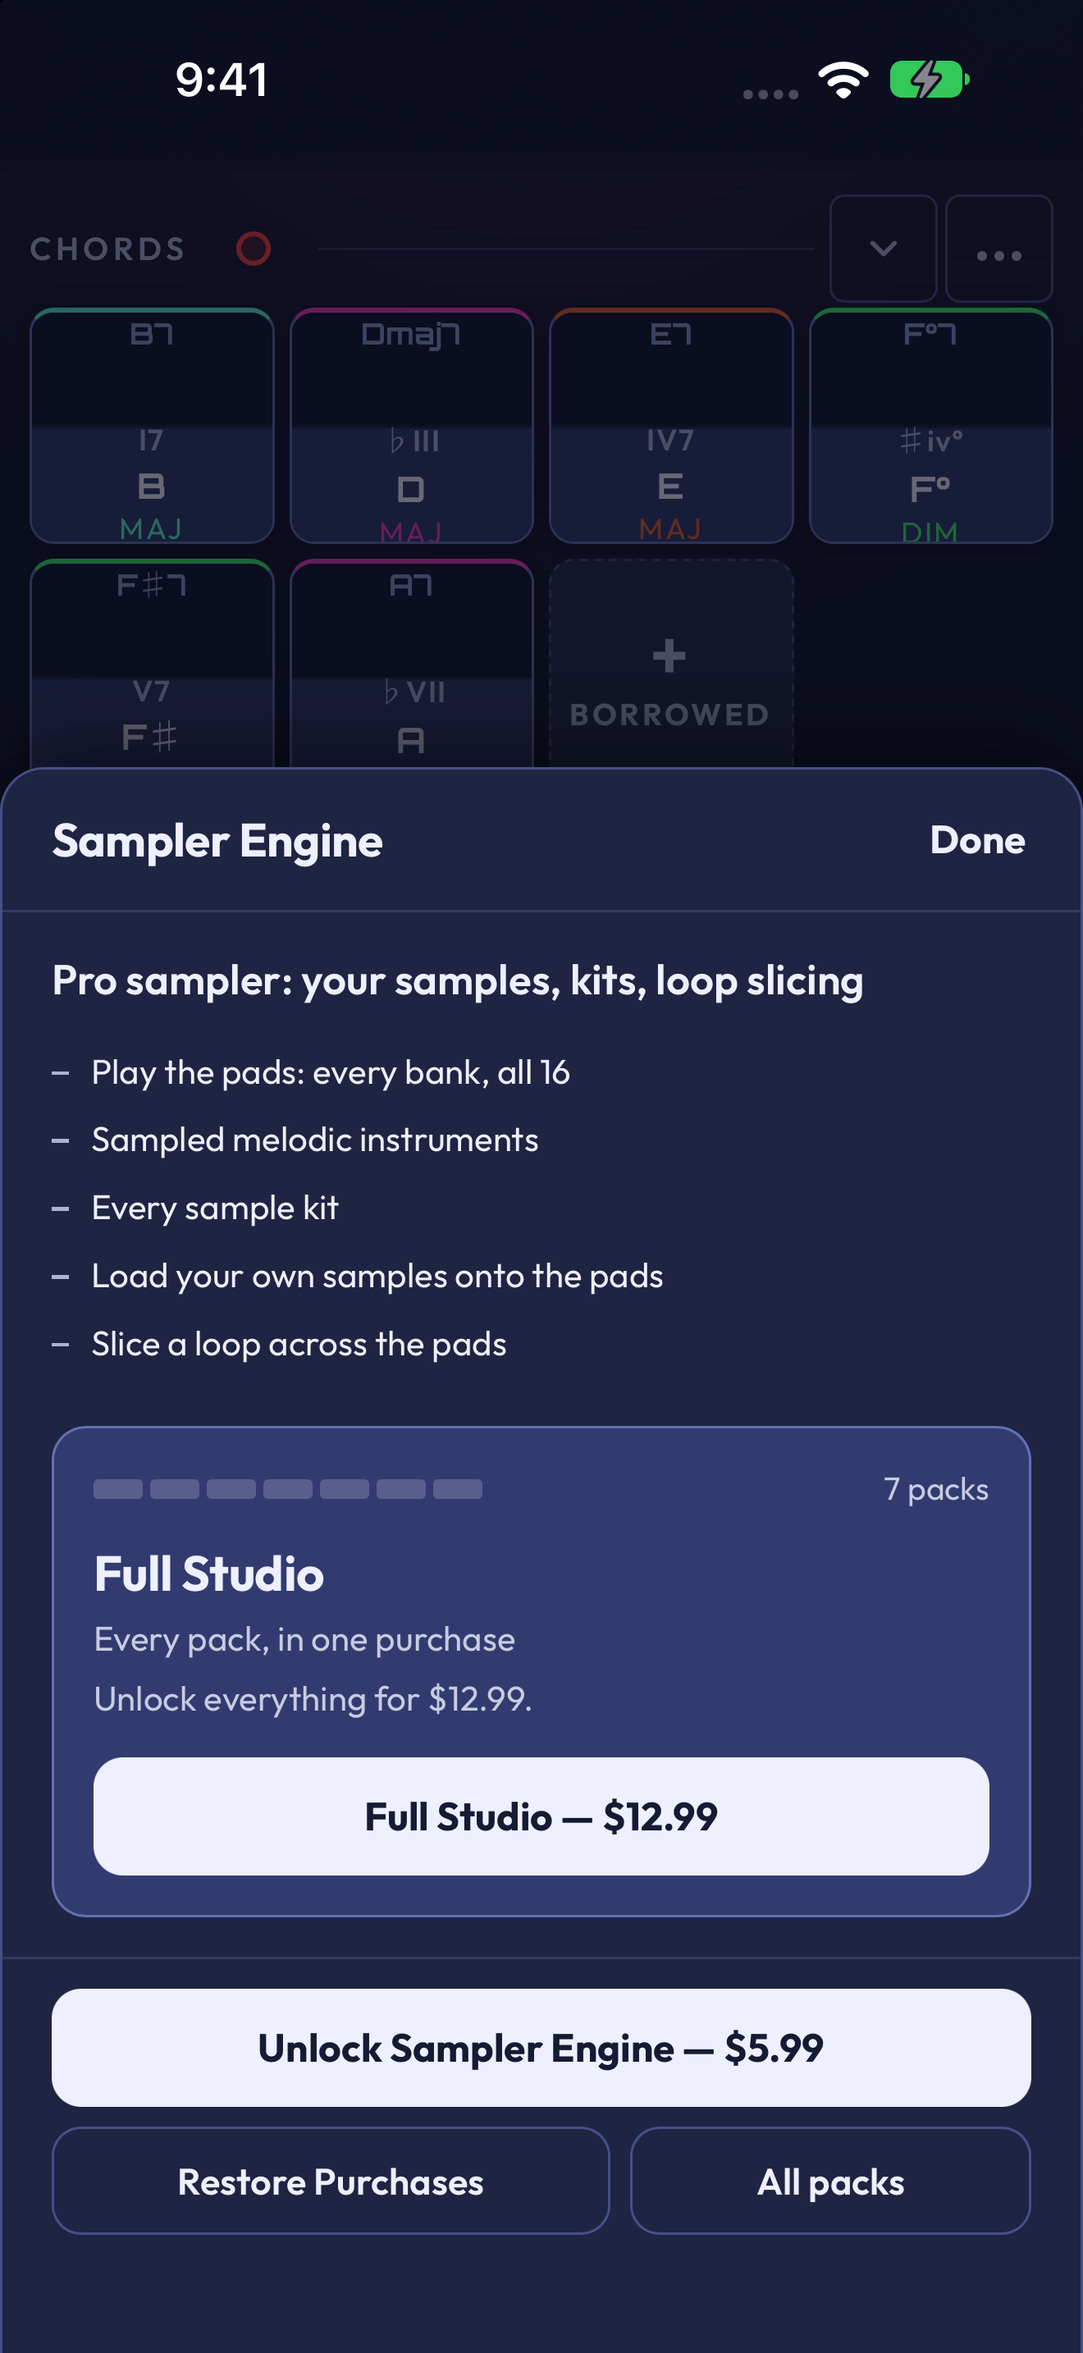
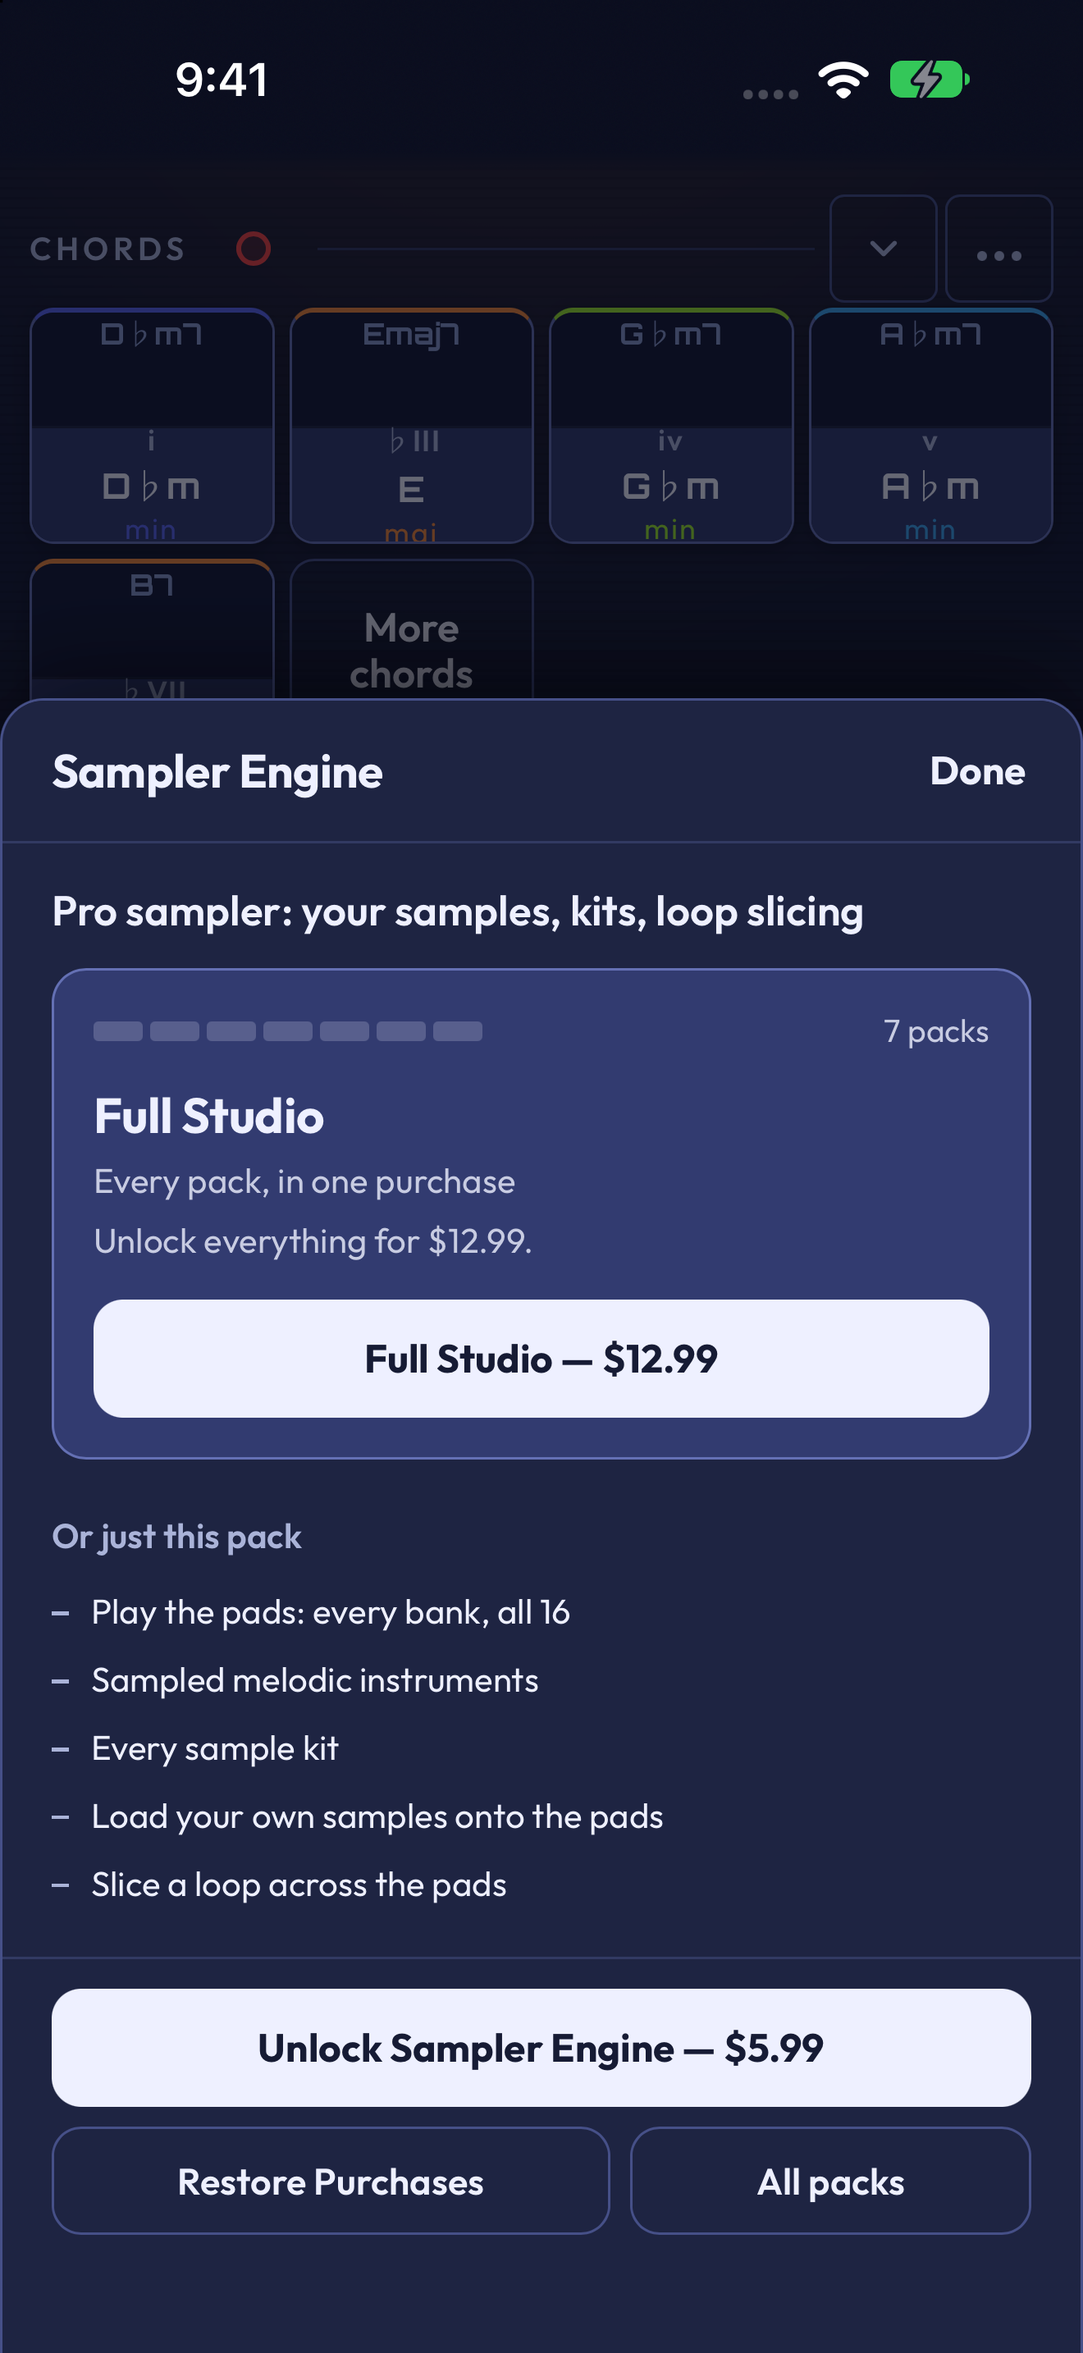
Refresh v2.4 purchase screenshots and App Review notes
Codex-Session: https://claude.ai/code/session_01a21eb6-9818-7411-b5da-d0631bbee7ea

diff --git a/docs/app-store.md b/docs/app-store.md
@@ -60,7 +60,7 @@ drum machine,synth,theory,midi,sampler,songwriting,backing track,looper,piano,gu
 (93.) The name covers “chord” and “groovebox,” and the subtitle covers “music.”
 Keep keywords distinct from the name, subtitle and category, and omit other products’ names.
 
-**Description** (2174 of 4000). One line per paragraph on purpose: App Store Connect keeps every line
+**Description** (limit 4000). One line per paragraph on purpose: App Store Connect keeps every line
 break you paste, so a description wrapped to 85 columns shows a break mid-sentence. It names no other product
 (no iReal, 808 or Linn: those are trademarks) and no price (prices are per storefront). It does not promise
 playback with the screen locked: background scheduling is still being moved to the engine
@@ -98,7 +98,7 @@ FREE TO START, PACKS WHEN YOU WANT MORE
 mõdRïff is free to use. Major, minor, pentatonic and blues scales, two drum kits, five saved songs, two sections per song and 30-second audio export are included. Add only what you need with one-time packs: Sampler Engine, mõdSynth Engine, Groove, Theory, Practice & Perform, Studio and Sounds. Or get Full Studio for every pack listed here, and every update to them. No subscriptions.
 
 PRIVATE BY DESIGN
-No account. No ads. No tracking. No third-party analytics. Works offline. Your songs, patterns and recordings stay on your device. Apple provides aggregate store statistics and, if you opt in to sharing, app usage and diagnostics.
+No account. No ads. No tracking. No third-party analytics. Make music offline. Your work stays on your device unless you choose to share it or turn on iCloud sync. Recordings are excluded from sync. Apple provides aggregate store statistics and, if you opt in to sharing, app usage and diagnostics.
 
 mõdRïff is made by one person, Ben Handel of Dutdut Records. Questions or ideas: support@modriff.com
 ```
@@ -169,15 +169,24 @@ References: [Apple: no technical implementation required](https://developer.appl
 [usage reports and opt-in](https://developer.apple.com/help/app-store-connect-analytics/engagement/app-usage/),
 [privacy disclosure rules](https://developer.apple.com/app-store/app-privacy-details/).
 
-`privacy.html` covers the camera (chord-sheet photo, read on the device), optional iCloud sync, the app's folder in Files,
-one-time packs and iPad. Pasting a web page address in Library > Chord charts (v2.2) makes one request from the device to that site, only for an address the person pasted; nothing is sent to us. The label stays Data Not Collected, but `privacy.html` (site repo) should say so. The November 12, 2026 update clarifies Apple's aggregate store reports and optional usage/diagnostic
-sharing, removes the overbroad "no third-party code" claim, and keeps the landing page consistent. The site's iPhone Duo tab shows the three states from `screenshots/v6.9.6/`; the open, wide shot was removed (it showed the old Linn kit name), so retake it from Xcode before the site keeps that state. The
-site's "for iPhone, iPad and Mac" is true: the Mac Catalyst build is uploaded to App Store Connect.
+The [public policy](https://modriff.com/privacy.html) covers on-device chord-sheet recognition, optional iCloud sync,
+Files and one-time packs. In Library > Chord charts, Import requests the web address the user entered directly from
+that site. Next page requests the linked page. The developer receives neither the address nor the imported charts.
+The App Privacy answer stays Data Not Collected. The site's iPhone Duo shots in `screenshots/v6.9.6/` are historical.
+
+## App Store Connect status
+
+App Store Connect app ID `6828620379` covers iOS and macOS. Apple confirmed the v2.4 iOS release candidate in
+TestFlight on November 27, 2026 (`1.0 (261127.1534)`, source `f0e385549`). The previous TestFlight builds were
+iOS `1.0 (261125.1142)` and macOS `1.0 (261125.1136)`. Check the outstanding messages for
+[iOS](https://appstoreconnect.apple.com/apps/6828620379/appstore/reviewsubmissions/details/a57b9ead-b8b5-488c-99e3-6ecbe4aec323) and
+[macOS](https://appstoreconnect.apple.com/apps/6828620379/appstore/reviewsubmissions/details/da1e7fd7-fddc-4e38-8986-6a36efb5bc57)
+before resubmitting. TestFlight availability and App Review approval are separate steps.
 
 ## App Review notes
 
 Apple's reply to the first submission asked for six things in the Notes field (limit 4000). The note below
-answers all six in order (3311 characters, counted with `len()` on the text between the rules). Paste it into
+answers all six in order. Paste it into
 App Store Connect > App Review Information > Notes and replace the recording line with the real link first.
 It is the only review note: the sandbox route to the packs is in it, so the IAP section no longer has its own.
 
@@ -214,17 +223,17 @@ mõdRïff is a chord-based music maker for iPhone, iPad and Mac. You pick a key 
 
 3. HOW TO REACH THE MAIN FEATURES
 No account, sample file or setup needed; it works offline. Open the app, tap Start, press the green play button in the bottom bar. Tap the chord pads on the Live tab, or open Drums and tap steps in the grid.
-Paid features: the app is free; seven optional packs and a Full Studio bundle are one-time In-App Purchases. Tapping any locked control opens a sheet naming it with the pack and its price; Settings > About > Store lists every pack. In the sandbox: tap a locked drum kit (Digital 1 and Analog 1 are free), buy the Groove Pack, then tap another locked control: the sheet now offers "Complete Your Studio", an upgrade price for Full Studio shown only after a pack is owned. Restore Purchases is on that sheet, the store screen and Settings > About. Locked things can often be tried first: sampler pads and Sounds Pack voices play a quiet preview twice, and Hear it plays a short Groove Pack demo.
-Permissions, each asked only when used: Microphone, when you record in the Sampler. Camera, when you choose Camera to import a chord sheet from a photo (Songs > File > Import a chord sheet). Bluetooth, only via Settings > MIDI to pair a Bluetooth MIDI keyboard (not needed to review). Local Network, only when Ableton Link is switched on in Settings. iCloud sync (Settings > iCloud & backup) is optional and off by default; it needs an iCloud account and is not needed to review. Background audio is enabled so a song keeps playing when the screen locks.
+Paid features: seven optional packs and Full Studio are one-time purchases. Tap a locked drum kit in Studio > Drums. On a fresh install the sheet shows Full Studio first. Tap Unlock Groove Pack at the bottom to buy only that pack. After buying it, tap another locked control to see Complete Your Studio, the upgrade for existing pack owners. Restore Purchases is at the bottom of the sheet and under More > Settings > Packs & purchases, which also has the Store button. Hear it plays a short demo.
+Permissions are requested when used. Microphone: record a sample in the Sampler. Camera: Song > Build > File > Import a chord sheet > Camera. Bluetooth: pair a MIDI keyboard in Settings > MIDI & keyboard. Local Network: turn on Ableton Link in Settings. Background audio allows supported playback to continue when you lock the screen. Optional iCloud sync is off by default under Settings > iCloud & backup.
 
 4. EXTERNAL SERVICES
-Apple's StoreKit 2 for the purchases, and Apple's on-device text recognition (Vision) to read chord-sheet photos; the picture is not stored or sent. Ableton Link (Ableton's SDK) for tempo sync with other apps on the local network. No server or backend of ours, no analytics, no advertising and no AI service. Nothing leaves the device unless the person turns on iCloud sync (off by default): then songs, setups and patches go to their own private iCloud (CloudKit) database, which we cannot read; recordings never sync. On the Mac, Link listens for peers on the local network (the com.apple.security.network.server entitlement); the app runs no server.
+Apple's StoreKit 2 handles purchases. Apple's Vision reads chord-sheet photos on the device without storing or sending the picture. Ableton Link syncs tempo with other apps on the local network. On Mac, it listens for local peers using the com.apple.security.network.server entitlement. The app has no developer backend, third-party analytics, ads or AI service. With iCloud sync on, songs, setups and patches go to the user's private CloudKit database, which we cannot access. Recordings stay local unless the user shares them. Importing from a web address in Library > Chord charts requests the chosen site directly. Sharing or opening music in the browser sends it where the user chooses.
 
 5. REGIONS
 It behaves the same in every region. Only the prices differ, as the App Store sets them per storefront. English only.
 
 6. THIRD-PARTY MATERIAL
-Each bundled sound, font and code library is logged with its source, author and licence. Almost all sounds are CC0 (public domain). The rest are MIT, CC BY 3.0 (credited), SIL Open Font Licence fonts, and the developer's own work (icon, two sound effects). The synthesis models in the mõdSynth Macro Osc patches are MIT-licensed code from Emilie Gillet (Mutable Instruments). Ableton Link is used under license from Ableton AG. Credits and licence links for all of it are in Settings > Help & about > Credits. The app names no third-party product.
+Sources, authors and licences for the bundled sounds, fonts and libraries are in Settings > Help & about > Credits. They include CC0 sounds, credited CC BY 3.0 sounds, SIL Open Font Licence fonts, MIT-licensed code and sounds, and original work. Emilie Gillet's MIT-licensed synthesis models are used in the mõdSynth Macro Osc patches. Ableton Link is used under licence from Ableton AG.
 Contact: support@modriff.com
 ```
 
@@ -234,11 +243,11 @@ Contact: support@modriff.com
 2. Splash: tap Start.
 3. Press play in the bottom bar; let a groove run a few seconds.
 4. Live tab: tap chord pads; change key once to show everything following.
-5. Drums: open the grid and tap a few steps.
-6. Tap a locked control (a locked drum kit): the pack sheet opens, showing pack and price.
-7. Buy the Groove Pack with the sandbox account: confirm the Apple payment sheet; the kit unlocks and plays.
+5. Studio > Drums: open the grid and tap a few steps.
+6. Tap a locked drum kit. Show Full Studio at the top of the purchase sheet and Unlock Groove Pack at the bottom.
+7. Tap Unlock Groove Pack and confirm the sandbox purchase. Select the kit and let it play.
 8. Tap another locked control: the "Complete Your Studio" offer shows.
-9. Settings > Help & about > Store, then Restore Purchases.
+9. More > Settings > Packs & purchases > Restore Purchases.
 10. Sampler: tap Record; the microphone permission prompt appears; allow it, record a second, play it back.
 
 ## Header and search results
@@ -268,7 +277,7 @@ launch, tap Random, tap play, tap a chord, then `xcrun simctl io <udid> screensh
 Simulator: the shared one gets other sessions' builds installed over it. Driving a new Simulator needs the owner's
 approval in the app once per device.
 
-**IAP review shots** (`screenshots/iap/`, 1320 x 2868, opaque) show all eleven purchase sheets from the 1.9.9.9.2 iPhone Simulator build. `verification.json` records each sheet’s text, ownership and image hash; `source/` holds the disposable Simulator capture automation.
+**IAP review shots** (`screenshots/iap/`, 1320 x 2868, opaque) show all eleven purchase sheets from the v2.4 iPhone Simulator build. Full Studio appears first on the seven single-pack sheets, with each pack's own purchase button in the footer. `verification.json` records each sheet's text, ownership and image hash. `source/` holds the disposable Simulator capture automation.
 
 **Mac upload set** ([screenshots/mac-v2.2/](app-store/screenshots/mac-v2.2/)) contains six opaque sRGB PNGs at
 2560 × 1600, in upload order: Live, Studio drums, mõdSynth, Song builder, Stage and Mix. They were captured
@@ -280,9 +289,9 @@ Mac App Store build: `ios/mac-catalyst/archive-mac-store.sh` archives the Releas
 `App.pkg` to `~/Desktop/modRiff-mac-store/export` (`... upload` sends it to App Store Connect from Xcode's signed-in
 account). Checked 2026-11-06: the app is signed by Apple Distribution (cloud managed, made by Xcode on first export, none
 needed in the keychain), the package by `3rd Party Mac Developer Installer`, with the `Mac Catalyst Team Store Provisioning
-Profile: Handel.modRiff` embedded and the sandbox entitlements present. Not done: the app record's macOS platform in App
-Store Connect (a build cannot be uploaded until it exists), then upload, and the purchase flow on the Mac through
-StoreKit. Audio and bounce saving work on the Mac (owner-tested).
+Profile: Handel.modRiff` embedded and the sandbox entitlements present. The Mac build has reached TestFlight on the
+same app record as iOS. The Mac sandbox purchase and restore flow still need device verification. Audio and bounce
+saving work on the Mac (owner-tested).
 
 The current **iPhone app previews** are the three `store-*.mp4` files in `docs/app-store/previews/layout-overhaul/`: Live and Mix, landscape instruments, then Song and learning. They were retaken from the native Simulator for 1.9.4a–1.9.4c; the instruments film shows the larger two-row Studio selector and Aux, and Mix has Mixer and Voices only. Each is 27.1 seconds at constant 30 fps, H.264 High Level 4.0 and stereo AAC; portrait is 886 × 1920 and landscape 1920 × 886. The README lists coverage and rebuild commands, and `verification.json` records decoding, frame counts, loudness, true peak and hashes. Not uploaded or processed by App Store Connect; not heard on a physical iPhone. iPad and Mac need their own footage. `previews/feature-series/`, `high-impact/` and `2026-11-13/` retain the earlier films and their original editable sources; do not upload those earlier selections for this layout.
 
@@ -375,7 +384,7 @@ does). The pack’s list inside the app and its retaken `iap/Handel.modRiff.prac
   eleven different. Upload each under that product's Review Information. Each is the pack's
   sheet over a rolled song, with the store's launch prices filled in; the three Complete Your
   Studio shots come from owning one, two and three packs (Groove; Groove and Sounds; Groove,
-  Sounds and Studio), and `Full Studio` is the All packs screen. They were captured from the 1.9.9.9.2 iPhone Simulator build. Retake them on a device once a purchase runs, and
+  Sounds and Studio), and `Full Studio` is the All packs screen. They were captured from the v2.4 iPhone Simulator build. Retake them on a device once a purchase runs, and
   again if a pack's copy, price or the sheet changes.
 - A **promotional image** per product, which is optional and is what the store shows if it
   features the item: `docs/app-store/promo/<product id>.png`, 1024 x 1024, opaque, no rounded

diff --git a/docs/phone-test-checklist.md b/docs/phone-test-checklist.md
@@ -263,6 +263,6 @@ Since 6.2:
 - [ ] v2.1: iPhone app: Song > Share a link opens the iPhone share sheet; send it to yourself in Messages and tap it: Safari opens modriff.com/play and the splash offers to open the song. (Link and share-sheet logic measured in headless Chrome: tests/share/link.test.cjs; the sheet itself is not.)
 - [ ] v2.1a: iPhone app, first launch (fresh install): the splash shows one big green Learn button with Start and Random as quiet words under it; Learn opens the walkthrough, Start opens a blank page. (Measured in headless Chrome at four sizes: tests/learn/splash.test.cjs.)
 - [ ] v2.1b: iPhone app: finish the first-install walkthrough, then try each ending: Record it starts a take (red button stops it, then the share sheet); Send it to a friend opens the share sheet with a modriff.com/play link; Save this setup adds a setup. (Logic measured in headless Chrome: tests/learn/ending.test.cjs; the sheets and a real take on the phone are not.)
-- [ ] v2.1c: iPhone app, nothing bought yet: tap a locked control (a drum kit): the sheet leads with Full Studio and its price, then "Or just this pack" with the list; the single pack is still the button at the bottom. After buying one pack, the pack comes first again with Complete Your Studio under it. Review screenshots in docs/app-store/screenshots/iap/ were taken before this and show the old order. (Order and both buy buttons measured in headless Chrome: tests/tier/lead.test.cjs.)
+- [ ] v2.1c: iPhone app, nothing bought yet: tap a locked control (a drum kit): the sheet leads with Full Studio and its price, then "Or just this pack" with the list; the single pack is still the button at the bottom. After buying one pack, the pack comes first again with Complete Your Studio under it. The v2.4 review screenshots show the current sheets. (Order and both buy buttons measured in headless Chrome: tests/tier/lead.test.cjs.)
 - [ ] v2.2: iPhone app: Library > Chord charts: paste the address of a forum thread page (any page with chart links) and tap Import: "Reading the page…", then a list of the charts on it. Free picks one; with the Practice Pack tick several or Select all; Next page adds the following page. The page is read through the native HTTP plugin, which headless Chrome cannot exercise: if it says "Could not read that page", tell me which site. (List, filter, dedupe and import measured in headless Chrome: tests/import/page.test.cjs.)
 - [ ] v2.3: iPhone app: a Bounce with drums, then Open in mõdScore: the drums arrive as a Drum Set staff (kick, snare, toms in place, hats and cymbals as x), starting on a bar line even if Record was pressed mid-bar. (Measured in headless Chrome: tests/suite/handoff.test.js.)

diff --git a/docs/app-store/screenshots/iap/README.md b/docs/app-store/screenshots/iap/README.md
@@ -1,6 +1,6 @@
 # IAP review screenshots
 
-Eleven distinct native Simulator captures from 1.9.9.9.2, 1320 × 2868, opaque. `verification.json` records the actual sheet text, ownership state and final image hashes. Studio includes EQ; Theory includes pure tuning; Practice uses the current playlist-import wording. The backdrop is the current Live layout.
+Eleven distinct native Simulator captures from v2.4, 1320 × 2868, opaque. `verification.json` records the actual sheet text, ownership state and final image hashes. The seven single-pack sheets show Full Studio first and each pack's price and purchase button in the footer. The other four show Full Studio and the three Complete Your Studio offers.
 
 Launch prices come from the table in `docs/app-store.md` and are supplied only to the disposable capture bundle’s provider. These images verify presentation, not a StoreKit purchase. The upgrade shots own Groove; Groove and Sounds; Groove, Sounds and Studio.
 
